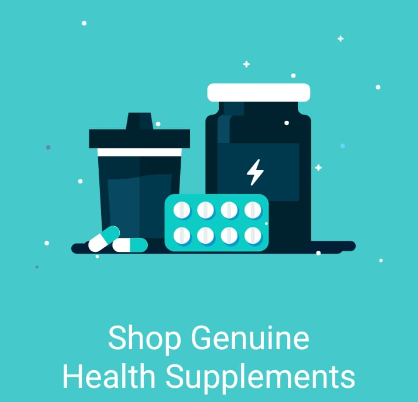
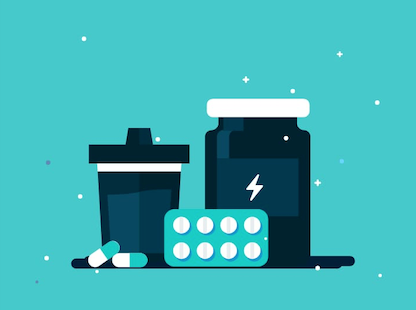
completed Landing Page and Auth Page

diff --git a/src/Screens/LandingPage/LandingPage.js b/src/Screens/LandingPage/LandingPage.js
@@ -1,16 +1,17 @@
 import React, {Component} from 'react';
-import {View, Text, Image} from 'react-native';
+import {View, Text, Image, TouchableOpacity, StyleSheet} from 'react-native';
 import Carousel, {Pagination} from 'react-native-snap-carousel';
 import imagePath from '../../constants/imagePath';
+import navigationStrings from '../../constants/navigationStrings';
 import colors from '../../styles/colors';
 
 export default class LandingPage extends Component {
   state = {
     imageCarousel: [
-      imagePath.carousel_img1,
-      imagePath.carousel_img2,
-      imagePath.carousel_img3,
-      imagePath.carousel_img4,
+      {image : imagePath.carousel_img1, label_first: 'Shop Genuine', label_second: 'Health Supplements'},
+      {image : imagePath.carousel_img2, label_first: 'Get Customized Diet', label_second: '& Workout Plans'},
+      {image : imagePath.carousel_img3, label_first: 'Consult with', label_second: 'Best Nutritionists'},
+      {},
     ],
     activeSlide: 0,
   };
@@ -18,7 +19,7 @@ export default class LandingPage extends Component {
     return (
       <View style={{justifyContent: 'center'}}>
         <Image
-          source={item}
+          source={item.image}
           style={{
             resizeMode: 'contain',
             height: 300,
@@ -26,46 +27,90 @@ export default class LandingPage extends Component {
             alignSelf: 'center',
           }}
         />
+        <Text style={{textAlign: 'center', fontSize: 30, color: '#fff'}}>{item.label_first}{'\n'}{item.label_second}</Text>
       </View>
     );
   };
-
+  
   _renderItemPag({item, index}) {
     return <MySlideComponent data={item} />;
+  }
+  
+  carouselIndexChangeHandler = (index) => {
+    const {imageCarousel} = this.state;
+    if(index < imageCarousel.length - 1)
+      this.setState({activeSlide: index});
+    else {
+      this.props.navigation.navigate(navigationStrings.AuthPage);
+    }
+  }
+
+
+  componentDidMount = () => {
+    this.blurListener = this.props.navigation.addListener('blur', () => {
+      this._carousel.snapToItem(0);
+      this.setState({activeSlide: 0});
+    })
+  }
+
+  componentWillUnmount = () => {
+    this.blurListener();
   }
 
   render() {
     const {imageCarousel, activeSlide} = this.state;
     return (
-      <View style={{flex: 1, backgroundColor: colors.landingPageGreen}}>
+      <View style={styles.pageContainer}>
         <View>
-          <Carousel
-            data={this.state.imageCarousel}
-            renderItem={this._renderItem}
-            itemWidth={350}
-            sliderWidth={360}
-            onSnapToItem={index => this.setState({activeSlide: index})}
+          <View>
+            <Carousel
+            ref={(c) => {this._carousel = c; }}
+              data={this.state.imageCarousel}
+              renderItem={this._renderItem}
+              itemWidth={350}
+              sliderWidth={360}
+              onSnapToItem={index => this.carouselIndexChangeHandler(index)}
+            />
+          </View>
+          <Pagination
+            dotsLength={imageCarousel.length}
+            activeDotIndex={activeSlide}
+            dotStyle={{
+              width: 10,
+              height: 10,
+              borderRadius: 5,
+              backgroundColor: 'rgba(255, 255, 255, 0.92)',
+            }}
+            inactiveDotStyle={
+              {
+                // Define styles for inactive dots here
+              }
+            }
+            inactiveDotOpacity={0.4}
+            inactiveDotScale={1}
           />
         </View>
-        <Pagination
-          dotsLength={imageCarousel.length}
-          activeDotIndex={activeSlide}
-          containerStyle={{backgroundColor: 'rgba(0, 0, 0, 0.75)'}}
-          dotStyle={{
-            width: 10,
-            height: 10,
-            borderRadius: 5,
-            backgroundColor: 'rgba(255, 255, 255, 0.92)',
-          }}
-          inactiveDotStyle={
-            {
-              // Define styles for inactive dots here
-            }
-          }
-          inactiveDotOpacity={0.4}
-          inactiveDotScale={1}
-        />
+        <TouchableOpacity style={styles.buttonContainer} onPress={() => this.props.navigation.navigate(navigationStrings.AuthPage)}>
+          <Text style={styles.buttonTextStyle}>Get Started</Text>
+        </TouchableOpacity>
       </View>
     );
   }
 }
+
+const styles = StyleSheet.create({
+  pageContainer: {
+    flex: 1,
+    backgroundColor: colors.landingPageGreen,
+    justifyContent: 'center',
+  },
+  buttonContainer: {
+    alignItems: 'center',
+    backgroundColor: '#fff',
+    marginHorizontal: 20,
+    borderRadius: 10,
+    paddingVertical: 15,
+    marginTop: 50
+  },
+  buttonTextStyle: {color: colors.landingPageGreen, fontSize: 18},
+});

diff --git a/src/Screens/AuthPage/AuthPage.js b/src/Screens/AuthPage/AuthPage.js
@@ -1,0 +1,69 @@
+import React, {Component} from 'react';
+import {
+  Image,
+  Text,
+  View,
+  ImageBackground,
+  StyleSheet,
+  TouchableOpacity,
+} from 'react-native';
+import imagePath from '../../constants/imagePath';
+import navigationStrings from '../../constants/navigationStrings';
+
+export default class AuthPage extends Component {
+
+  render() {
+    return (
+      <View style={{flex: 1}}>
+        <ImageBackground
+          source={imagePath.image_bg}
+          style={styles.imageBgStyle}>
+          <View style={{flex: 0.5, justifyContent: 'flex-end'}}>
+            <View style={{marginHorizontal: 50}}>
+              <Image
+                source={imagePath.logo}
+                tintColor="#fff"
+                style={styles.logoStyle}
+              />
+            </View>
+            <Text style={styles.logoText}>
+              Kick start your fitness journey
+            </Text>
+          </View>
+          <View style={{flex: 0.5, justifyContent: 'center'}}>
+            <View style={{flexDirection: 'row'}}>
+              <TouchableOpacity style={styles.buttonContainer} onPress={() => this.props.navigation.navigate(navigationStrings.SignUp)}>
+                <Text style={styles.buttonText}>Sign Up</Text>
+              </TouchableOpacity>
+              <TouchableOpacity style={styles.buttonContainer} onPress={() => this.props.navigation.navigate(navigationStrings.Login)}>
+                <Text style={styles.buttonText}>Log In</Text>
+              </TouchableOpacity>
+            </View>
+            <TouchableOpacity>
+              <Text style={{color: '#fff', fontSize: 18, textAlign: 'center', marginTop: 64}}>Skip for now</Text>
+            </TouchableOpacity>
+          </View>
+        </ImageBackground>
+      </View>
+    );
+  }
+}
+
+const styles = StyleSheet.create({
+  imageBgStyle: {flex: 1, resizeMode: 'cover',paddingHorizontal: 8},
+  logoStyle: {
+    height: 100,
+    resizeMode: 'contain',
+    width: '100%',
+  },
+  buttonContainer: {
+    backgroundColor: '#fff',
+    borderRadius: 8,
+    flex: 0.5,
+    marginHorizontal: 20,
+    paddingVertical:15
+  },
+  logoText: {color: '#fff', textAlign: 'center', fontSize: 15},
+  buttonText: {textAlign: 'center', fontSize: 16}
+  
+});

diff --git a/src/Screens/SignUp/SignUp.js b/src/Screens/SignUp/SignUp.js
@@ -25,7 +25,7 @@ export default class SignUp extends Component {
         </View>
         <View style={{backgroundColor: '#b8b8b8', height: 1.5}} />
         <View style={styles.contentContainer}>
-          <Text style={{marginTop: 16, marginBottom: 20}}>
+          <Text style={{marginTop: 16, marginBottom: 20, fontSize: 14}}>
             Your number is safe with us. We won't share your details with
             anyone.
           </Text>
@@ -46,6 +46,7 @@ export default class SignUp extends Component {
             style={{
               flexDirection: 'row',
               justifyContent: 'center',
+              alignItems: 'center',
               marginTop: 30,
             }}>
             <View style={styles.lineStyle} />
@@ -117,8 +118,8 @@ const styles = StyleSheet.create({
 
   inputTextStyle: {
     borderColor: colors.themeGreen,
-    borderWidth: 2,
-    borderRadius: 40,
+    borderWidth: 1,
+    borderRadius: 8,
     paddingHorizontal: 25,
   },
 
@@ -126,7 +127,7 @@ const styles = StyleSheet.create({
     backgroundColor: colors.themeGreen,
     paddingVertical: 15,
     marginTop: 40,
-    borderRadius: 40,
+    borderRadius: 4,
   },
   buttonTextStyle: {
     color: '#fff',

diff --git a/src/Screens/Login/Login.js b/src/Screens/Login/Login.js
@@ -103,12 +103,19 @@ const styles = StyleSheet.create({
   },
   inputTextStyle: {
     borderColor: colors.themeGreen,
-    borderWidth: 2,
-    borderRadius: 40,
+    borderWidth: 1,
+    borderRadius: 8,
     paddingHorizontal: 25,
   },
+
+  buttonStyle: {
+    backgroundColor: colors.themeGreen,
+    paddingVertical: 15,
+    marginTop: 32,
+    borderRadius: 4,
+  },
   inputContainerStyle: {
-    marginVertical: 15,
+    marginVertical: 16,
   },
   contentContainer: {
     paddingHorizontal: 15,
@@ -116,14 +123,8 @@ const styles = StyleSheet.create({
   helpTextStyle: {
     flexDirection: 'row',
     justifyContent: 'space-between',
-    marginTop: 8,
+    marginTop: 16,
     paddingHorizontal: 15,
-  },
-  buttonStyle: {
-    backgroundColor: colors.themeGreen,
-    paddingVertical: 15,
-    marginTop: 40,
-    borderRadius: 40,
   },
   buttonTextStyle: {
     color: '#fff',

diff --git a/src/Navigation/AuthStack.js b/src/Navigation/AuthStack.js
@@ -1,7 +1,7 @@
 import React from 'react';
 import {createStackNavigator} from '@react-navigation/stack';
 import navigationStrings from '../constants/navigationStrings';
-import {Login, SignUp, LandingPage} from '../Screens';
+import {Login, SignUp, LandingPage, AuthPage} from '../Screens';
 
 const Stack = createStackNavigator();
 
@@ -21,6 +21,11 @@ export default function AuthStack() {
       <Stack.Screen
         name={navigationStrings.LandingPage}
         component={LandingPage}
+        options={{headerShown: false}}
+      />
+      <Stack.Screen
+        name={navigationStrings.AuthPage}
+        component={AuthPage}
         options={{headerShown: false}}
       />
     </>

diff --git a/src/constants/imagePath.js b/src/constants/imagePath.js
@@ -1,6 +1,8 @@
 export default {
   carousel_img1: require('../assets/images/carousel_img1.png'),
-  carousel_img2: require('../assets/images/carousel_img1.png'),
-  carousel_img3: require('../assets/images/carousel_img1.png'),
+  carousel_img2: require('../assets/images/carousel_img2.png'),
+  carousel_img3: require('../assets/images/carousel_img3.png'),
   carousel_img4: require('../assets/images/carousel_img1.png'),
+  logo: require('../assets/images/logo.png'),
+  image_bg: require('../assets/images/image-bg.jpg'),
 };

diff --git a/src/Screens/index.js b/src/Screens/index.js
@@ -1,3 +1,4 @@
 export {default as Login} from './Login/Login';
 export {default as SignUp} from './SignUp/SignUp';
 export {default as LandingPage} from './LandingPage/LandingPage';
+export {default as AuthPage} from './AuthPage/AuthPage';

diff --git a/src/constants/navigationStrings.js b/src/constants/navigationStrings.js
@@ -2,4 +2,5 @@ export default {
   Login: 'Login',
   SignUp: 'SignUp',
   LandingPage: 'LandingPage',
+  AuthPage: 'AuthPage',
 };
